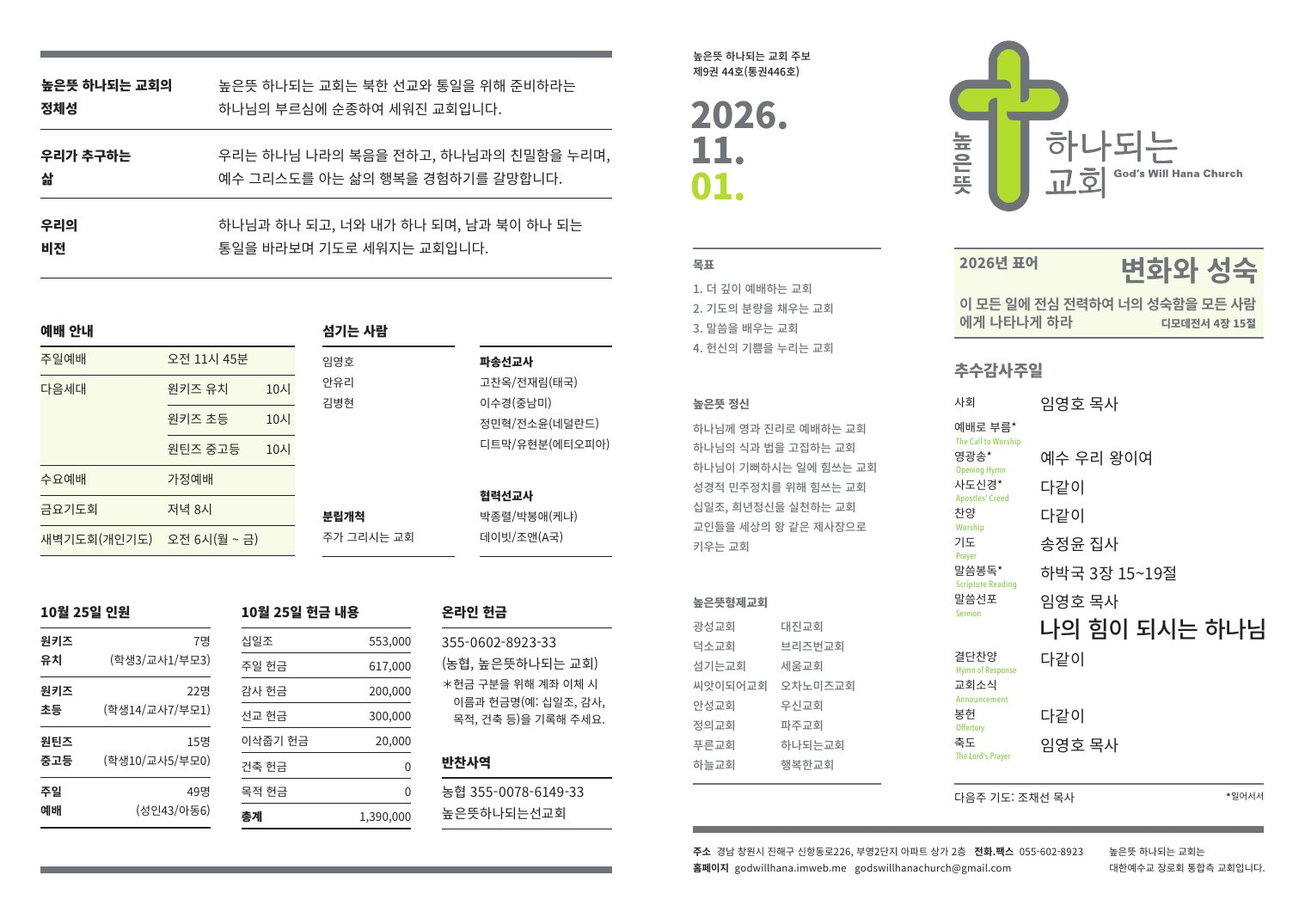
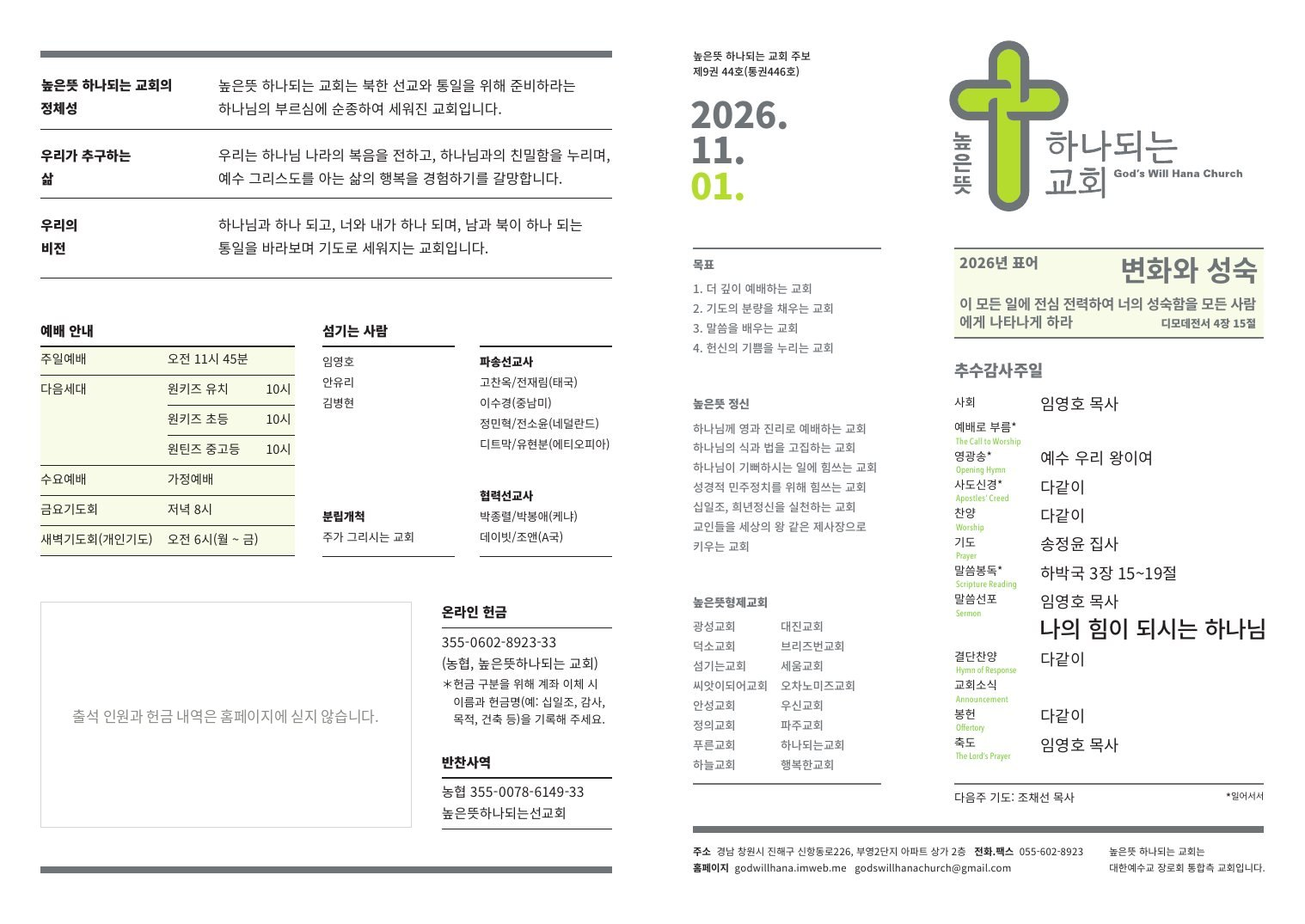
사진 넣기, 최근 4주 주보, 상단 로고·설교 첫 화면 교체
- 첫 배너·비전 배경·선교 2장·새가족 3장·대표 소식에 실제 사진 적용
- 섬기는 사람들: 원형 프로필에 이름·직위 표시
- 주보 목록을 최근 4주(443~446호)만 보이게 하고, 앞면 출석·헌금 내역 가림
- 상단 로고를 새 교회 로고로 교체 (하단 로고는 그대로)
- 설교 첫 화면 이미지와 제목 교체, SNS 아이콘 선명하게

Claude-Session: https://claude.ai/code/session_01PErPgFCD1Rt3vrzyZFhzrb

Changed region(s): [[0.031, 0.6447, 0.3096, 0.8902], [0.0929, 0.8595, 0.1548, 0.8902], [0.2787, 0.8595, 0.3096, 0.8902]]

diff --git a/index.html b/index.html
@@ -648,6 +648,72 @@ details.spirit-item{border:0!important;border-top:1px solid var(--rule)!importan
 .home-row{border-top:1px solid var(--line)!important}
 /* 설교 영상 : 예배 시간 = 2 : 1 */
 @media (min-width:1001px){.home-row .row-grid{grid-template-columns:2fr 1fr;gap:48px}.home-row .worship-times .times{grid-template-columns:1fr}}
+
+/* ===== 사진 배치 시안 (자리 표시) ===== */
+.ph{margin:0;position:relative;display:grid;place-items:center;overflow:hidden;color:#fff;
+  background:linear-gradient(135deg,#cbb89a 0%,#a8906f 55%,#8a7357 100%)}
+.ph::before{content:"";position:absolute;inset:0;background:repeating-linear-gradient(45deg,rgba(255,255,255,.06) 0 2px,transparent 2px 14px)}
+.ph-in{position:relative;display:grid;justify-items:center;gap:.3rem;text-align:center;padding:1rem;text-shadow:0 1px 4px rgba(0,0,0,.25)}
+.ph-in b{font-size:1rem;font-weight:700}
+.ph-in small{font-size:.8rem;opacity:.9;max-width:28em;line-height:1.5}
+.ph-n{position:absolute;left:12px;top:12px;z-index:2;width:26px;height:26px;border-radius:50%;background:#c4302b;color:#fff;font-size:.8rem;font-weight:800;display:grid;place-items:center;box-shadow:0 2px 6px rgba(0,0,0,.25)}
+/* 1 배너 */
+.slide.has-photo{justify-content:flex-start}
+.ph-hero{position:absolute;inset:0;width:100%;height:100%;background:linear-gradient(120deg,#5d4b39,#3a2f25 60%,#2a231c)}
+.ph-hero .ph-in{position:absolute;right:6%;bottom:56px;justify-items:end;text-align:right;opacity:.75}
+.slide.has-photo .slide-text{text-align:left;margin-left:max(72px,8%);padding:0;background:none!important}
+.slide.has-photo .slide-title,.slide.has-photo .slide-body,.slide.has-photo .slide-goals{color:#fff}
+.slide.has-photo .slide-eyebrow,.slide.has-photo .slide-ref{color:#e2c48e}
+.slide.has-photo .slide-goals{justify-content:start;border-top-color:rgba(255,255,255,.3)}
+.slide.has-photo .slide-goals li{justify-content:flex-start}
+.slide.has-photo .slide-goals b{background:#e2c48e;color:#2a231c}
+/* 2 비전 배경 */
+.vision.has-photo{position:relative;overflow:hidden}
+.ph-bg{position:absolute;inset:0;background:linear-gradient(135deg,#4a3d30,#2a231c)}
+.ph-bg .ph-in{position:absolute;right:16px;bottom:10px;padding:0;justify-items:end;opacity:.6}
+.ph-bg .ph-in svg,.ph-bg .ph-in b{display:none}
+.vision.has-photo .vision-in{position:relative}
+/* 3 프로필 */
+.ph-avatar{width:88px;height:88px;border-radius:50%;margin:0 auto .7rem;overflow:visible}
+.ph-avatar::before{border-radius:50%}
+.ph-avatar .ph-in{padding:0}.ph-avatar .ph-in b,.ph-avatar .ph-in small{display:none}
+.ph-avatar .ph-n{left:auto;right:-2px;top:-2px;width:22px;height:22px;font-size:.7rem}
+.person{border-top:0!important;padding-top:0!important}
+/* 4·6 가로 사진 */
+.ph-wide{aspect-ratio:16/9;border-radius:6px;margin-bottom:.4rem}
+.ph-flat{border-radius:0;margin:0}
+.feature{display:block!important;overflow:hidden}
+/* 5 공동체 사진 3장 */
+.ph-strip{display:grid;grid-template-columns:repeat(3,1fr);gap:12px;margin-bottom:var(--gap-block)}
+.ph-strip .ph{aspect-ratio:4/3;border-radius:6px}
+@media (max-width:640px){
+  .ph-strip{grid-template-columns:1fr 1fr}.ph-strip .ph:first-child{grid-column:1/-1;aspect-ratio:16/9}
+  .slide.has-photo .slide-text{margin-left:44px;margin-right:44px}
+  .ph-hero .ph-in{display:none}
+}
+
+/* 실제 사진이 들어간 자리 */
+.ph.has-img{background:#2a231c}
+.ph.has-img::before{display:none}
+.ph.has-img img{position:absolute;inset:0;width:100%;height:100%;object-fit:cover;display:block;max-width:none}
+.ph-bg.has-img img{object-position:center 30%}
+.ph-bg.has-img::after{content:"";position:absolute;inset:0;background:rgba(34,32,29,.45)}
+.ph-hero.has-img::after{content:"";position:absolute;inset:0;background:linear-gradient(90deg,rgba(20,16,12,.78) 0%,rgba(20,16,12,.5) 45%,rgba(20,16,12,.15) 100%)}
+.notice td{vertical-align:middle}
+.sns svg{width:22px!important;height:22px!important}
+a.sns{color:var(--pine)!important}
+a.sns:hover{color:var(--ink)!important}
+.side-logo-sm img.logo-full{width:auto;height:62px}
+@media (max-width:640px){.side-logo-sm img.logo-full{height:48px}}
+/* 섬기는 사람들: 원형 프로필 (이름 + 직위) */
+.staff{display:grid;justify-items:center}
+.staff .badge{width:132px;aspect-ratio:1;border-radius:50%;display:grid;place-content:center;justify-items:center;gap:.35rem;text-align:center;
+  background:var(--pine-soft);border:2px solid var(--pine);box-shadow:0 0 0 6px var(--pine-soft)}
+.person.staff .badge b{color:var(--ink);margin:0}
+.person.staff .badge .role{font-size:var(--t-sm)!important;color:var(--pine)!important;font-weight:600;white-space:nowrap}
+.person.staff:first-child .badge{background:var(--pine)}
+.person.staff:first-child .badge b,.person.staff:first-child .badge .role{color:#fff!important}
+@media (max-width:640px){.staff .badge{width:100px;box-shadow:0 0 0 4px var(--pine-soft)}.person.staff .badge .role{font-size:.75rem!important}}
 /* 형제교회 + 분립개척 한 세트 */
 .family{display:grid;grid-template-columns:1fr 220px;align-items:stretch;gap:0}
 .family h3{margin-bottom:1rem!important}
@@ -665,7 +731,7 @@ details.spirit-item{border:0!important;border-top:1px solid var(--rule)!importan
 
 <header class="side" id="side">
  <div class="side-in">
-  <a class="side-logo-sm" href="#top" aria-label="높은뜻 하나되는 교회 처음으로"><img src="logo.svg" alt="" width="40" height="40"><span>높은뜻 하나되는 교회</span></a>
+  <a class="side-logo-sm" href="#top" aria-label="높은뜻 하나되는 교회 처음으로"><img class="logo-full" src="logo-header.svg" alt="" width="335" height="199"></a>
   <nav class="side-nav" id="sideNav" aria-label="주 메뉴">
       <a href="#top" class="on home-link"><svg width="18" height="18" viewBox="0 0 24 24" fill="none" stroke="currentColor" stroke-width="1.8" stroke-linecap="round" stroke-linejoin="round" aria-hidden="true"><path d="M3 11l9-7 9 7"/><path d="M5 10v10h14V10"/></svg><span>Home</span></a>
       <a href="#notice"><svg width="18" height="18" viewBox="0 0 24 24" fill="none" stroke="currentColor" stroke-width="1.8" stroke-linecap="round" stroke-linejoin="round" aria-hidden="true"><path d="M12 3v18M7 8h10"/></svg><span>예배와 말씀</span></a>
@@ -675,8 +741,8 @@ details.spirit-item{border:0!important;border-top:1px solid var(--rule)!importan
       <a href="#news"><svg width="18" height="18" viewBox="0 0 24 24" fill="none" stroke="currentColor" stroke-width="1.8" stroke-linecap="round" stroke-linejoin="round" aria-hidden="true"><rect x="3" y="5" width="18" height="14" rx="1"/><path d="M7 9h10M7 13h6"/></svg><span>교회소식</span></a>
       <a class="m-only" href="#offering"><svg width="18" height="18" viewBox="0 0 24 24" fill="none" stroke="currentColor" stroke-width="1.8" stroke-linecap="round" stroke-linejoin="round" aria-hidden="true"><rect x="3" y="7" width="18" height="12" rx="1"/><path d="M3 11h18"/></svg><span>헌금 안내</span></a>
       <a class="m-only" href="#visit"><svg width="18" height="18" viewBox="0 0 24 24" fill="none" stroke="currentColor" stroke-width="1.8" stroke-linecap="round" stroke-linejoin="round" aria-hidden="true"><path d="M12 21s-6-5.5-6-11a6 6 0 0 1 12 0c0 5.5-6 11-6 11z"/><circle cx="12" cy="10" r="2"/></svg><span>오시는 길</span></a>
-      <a class="sns sns-first" aria-label="YouTube" href="https://www.youtube.com/@Godwillhanachurch" target="_blank" rel="noopener"><svg width="18" height="18" viewBox="0 0 24 24" fill="none" stroke="currentColor" stroke-width="1.8" stroke-linecap="round" stroke-linejoin="round" aria-hidden="true"><rect x="2.5" y="5.5" width="19" height="13" rx="3.5"/><path d="M10 9.5v5l4.5-2.5z" fill="currentColor"/></svg><span>YouTube</span></a>
-      <a class="sns" aria-label="Facebook" href="https://www.facebook.com/godswillhanachurch?locale=ko_KR" target="_blank" rel="noopener"><svg width="18" height="18" viewBox="0 0 24 24" fill="none" stroke="currentColor" stroke-width="1.8" stroke-linecap="round" stroke-linejoin="round" aria-hidden="true"><circle cx="12" cy="12" r="9.5"/><path d="M13.5 21.3V13.5h2.6l.4-3h-3V8.8c0-.9.3-1.5 1.6-1.5h1.5V4.7c-.3 0-1.2-.1-2.2-.1-2.2 0-3.6 1.3-3.6 3.8v2.1H8.3v3h2.5v7.6"/></svg><span>Facebook</span></a>
+      <a class="sns sns-first" aria-label="YouTube" href="https://www.youtube.com/@Godwillhanachurch" target="_blank" rel="noopener"><svg width="22" height="22" viewBox="0 0 24 24" aria-hidden="true"><path fill="currentColor" fill-rule="evenodd" d="M6 5h12a4 4 0 0 1 4 4v6a4 4 0 0 1-4 4H6a4 4 0 0 1-4-4V9a4 4 0 0 1 4-4zm4 4.2v5.6l5-2.8z"/></svg><span>YouTube</span></a>
+      <a class="sns" aria-label="Facebook" href="https://www.facebook.com/godswillhanachurch?locale=ko_KR" target="_blank" rel="noopener"><svg width="22" height="22" viewBox="0 0 24 24" aria-hidden="true"><path fill="currentColor" d="M12 2a10 10 0 0 0-1.6 19.9v-7H7.9V12h2.5V9.8c0-2.5 1.5-3.9 3.8-3.9 1.1 0 2.2.2 2.2.2v2.5h-1.3c-1.2 0-1.6.8-1.6 1.6V12h2.8l-.4 2.9h-2.3v7A10 10 0 0 0 12 2z"/></svg><span>Facebook</span></a>
   </nav>
   <a class="side-first" href="#life">처음 오셨나요?</a>
   <button class="side-toggle" type="button" id="sideToggle" aria-expanded="false" aria-controls="sideNav">메뉴</button>
@@ -687,46 +753,8 @@ details.spirit-item{border:0!important;border-top:1px solid var(--rule)!importan
   <!-- 1. 슬라이드 배너 -->
   <section class="slider" aria-roledescription="carousel" aria-label="주요 안내">
     <div class="slides" id="slides">
-      <article class="slide s1" aria-roledescription="slide" aria-label="1 / 3">
-        <svg class="slide-bg" viewBox="0 0 1200 470" preserveAspectRatio="xMinYMid slice" aria-hidden="true">
-          <rect width="1200" height="470" fill="#f3eee5"/>
-          <g transform="translate(-30 60) scale(.85)"><circle cx="560" cy="150" r="96" fill="#e6d6b8" opacity=".55"/>
-          <circle cx="560" cy="150" r="150" fill="#e6d6b8" opacity=".22"/>
-          </g><path d="M0 386 C 300 372, 700 372, 1200 388 V470 H0z" fill="#e7dfd1"/>
-          <path d="M0 386 C 300 372, 700 372, 1200 388" stroke="#cbbca4" stroke-width="1.5" fill="none"/><g transform="translate(-30 60) scale(.85)">
-          <path d="M128 360 C 230 300, 330 285, 430 250" stroke="#b9a68a" stroke-width="1.5" stroke-dasharray="2 7" stroke-linecap="round" fill="none"/>
-          <g stroke="#6f5a43" stroke-linecap="round" stroke-linejoin="round" fill="none">
-            <!-- 1. 씨앗 -->
-            <ellipse cx="110" cy="392" rx="9" ry="6" fill="#8a7155" stroke="none"/>
-            <path d="M110 398 q -4 10 2 18 M110 398 q 6 8 4 16" stroke-width="1.4"/>
-            <!-- 2. 새싹 -->
-            <path d="M220 384 V346" stroke-width="2.5"/>
-            <path d="M220 352 C 204 350, 196 338, 198 328 C 210 330, 220 340, 220 352z" fill="#a7865f" stroke-width="1.5"/>
-            <path d="M220 346 C 236 344, 244 332, 242 322 C 230 324, 220 334, 220 346z" fill="#b99a70" stroke-width="1.5"/>
-            <!-- 3. 어린 나무 -->
-            <path d="M350 384 V290" stroke-width="3.5"/>
-            <path d="M350 350 C 326 348, 314 330, 316 316 C 334 318, 348 334, 350 350z" fill="#a7865f" stroke-width="1.5"/>
-            <path d="M350 330 C 374 328, 386 310, 384 296 C 366 298, 352 314, 350 330z" fill="#b99a70" stroke-width="1.5"/>
-            <path d="M350 306 C 330 302, 322 286, 326 274 C 340 278, 350 292, 350 306z" fill="#8f7558" stroke-width="1.5"/>
-            <path d="M350 294 C 366 288, 372 272, 368 262 C 356 266, 350 280, 350 294z" fill="#a7865f" stroke-width="1.5"/>
-          </g>
-          <!-- 4. 열매 맺은 나무 -->
-          <g>
-            <path d="M556 386 C 552 340, 552 300, 556 250 M556 300 C 530 280, 510 262, 496 240 M556 286 C 582 266, 600 250, 612 226" stroke="#5c4a37" stroke-width="11" stroke-linecap="round" fill="none"/>
-            <circle cx="500" cy="210" r="62" fill="#8f7558" opacity=".92"/>
-            <circle cx="612" cy="200" r="66" fill="#a7865f" opacity=".92"/>
-            <circle cx="556" cy="160" r="74" fill="#6f5a43" opacity=".95"/>
-            <circle cx="470" cy="250" r="40" fill="#a7865f" opacity=".85"/>
-            <circle cx="646" cy="250" r="42" fill="#8f7558" opacity=".85"/>
-            <g fill="#e2c48e">
-              <circle cx="520" cy="150" r="7"/><circle cx="590" cy="130" r="6"/><circle cx="612" cy="210" r="7"/>
-              <circle cx="490" cy="222" r="6"/><circle cx="556" cy="196" r="7"/><circle cx="650" cy="250" r="6"/><circle cx="466" cy="256" r="5"/>
-            </g>
-          </g>
-          <g fill="#8a7a66" font-family="Pretendard, sans-serif" font-size="13" text-anchor="middle" letter-spacing="1">
-            <text x="110" y="440">씨앗</text><text x="220" y="440">새싹</text><text x="350" y="440">자람</text><text x="556" y="440">열매</text>
-          </g>
-        </g></svg>
+      <article class="slide s1 has-photo" aria-roledescription="slide" aria-label="1 / 3">
+        <figure class="ph ph-hero slide-bg has-img"><img src="images/hero-worship.jpg" alt="높은뜻 하나되는 교회 주일 예배 모습" fetchpriority="high" decoding="async"></figure>
         <div class="slide-text">
           <p class="slide-eyebrow">2026년 표어</p>
           <h1 class="slide-title">변화와 성숙</h1>
@@ -787,13 +815,13 @@ details.spirit-item{border:0!important;border-top:1px solid var(--rule)!importan
       <div class="row-grid">
         <div class="latest">
           <a class="thumb" href="https://www.youtube.com/watch?v=8PKMA2Dn6oE" target="_blank" rel="noopener" aria-label="11월 1일 주일예배 영상 보기 (유튜브)">
-            <img class="thumb-img" src="https://i.ytimg.com/vi/8PKMA2Dn6oE/hqdefault.jpg" alt="" loading="lazy" onload="this.parentNode.classList.add('has-img')" onerror="this.remove()">
+            <img class="thumb-img" src="images/sermon-thumb.jpg" alt="" loading="lazy" onload="this.parentNode.classList.add('has-img')" onerror="this.remove()">
             <span class="thumb-date">2026. 11. 1 주일예배</span>
-            <strong>나의 힘이 되시는<br>하나님</strong>
+            <strong>나의 힘이 되신 여호와,<br>하나님</strong>
             <span class="thumb-meta">하박국 3:15~19 · 임영호 목사</span>
             <span class="play" aria-hidden="true"><svg width="22" height="22" viewBox="0 0 24 24"><path d="M8 5v14l11-7z" fill="currentColor"/></svg></span>
           </a>
-          <h2 class="latest-title">[주일예배] 나의 힘이 되시는 하나님</h2>
+          <h2 class="latest-title">[주일예배] 나의 힘이 되신 여호와, 하나님</h2>
           <p class="latest-meta">2026년 11월 1일 추수감사주일 / 본문: 하박국 3장 15~19절 / 설교자: 임영호 목사</p>
           <div class="latest-btns"><a class="btn-dark" href="https://www.youtube.com/@Godwillhanachurch/shorts" target="_blank" rel="noopener">설교 숏츠 보기</a><a class="more" href="https://www.youtube.com/@Godwillhanachurch/streams" target="_blank" rel="noopener">지난 설교 전체 보기 <span aria-hidden="true">→</span></a></div>
         </div>
@@ -826,7 +854,8 @@ details.spirit-item{border:0!important;border-top:1px solid var(--rule)!importan
   </section>
 
   <!-- 3. 교회소개 — 비전 -->
-  <section class="vision" id="vision">
+  <section class="vision has-photo" id="vision">
+    <figure class="ph ph-bg has-img" aria-hidden="true"><img src="images/vision-bg.jpg" alt="" loading="lazy" decoding="async"></figure>
     <div class="wrap vision-in">
       <h2>높은뜻 하나되는교회 비전</h2>
       <p class="vision-tag">One in God, One in Love, One Korea</p>
@@ -845,9 +874,9 @@ details.spirit-item{border:0!important;border-top:1px solid var(--rule)!importan
           <div class="box" id="people">
             <h3>섬기는 사람들</h3>
             <div class="people">
-              <div class="person"><b>임영호</b><span>담임목사</span></div>
-              <div class="person"><b>안유리</b><span>전임 전도사</span></div>
-              <div class="person"><b>김병현</b><span>찬양 전도사</span></div>
+              <div class="person staff"><div class="badge"><b>임영호</b><span class="role">담임목사</span></div></div>
+              <div class="person staff"><div class="badge"><b>안유리</b><span class="role">전임 전도사</span></div></div>
+              <div class="person staff"><div class="badge"><b>김병현</b><span class="role">찬양 전도사</span></div></div>
             </div>
           </div>
           <div class="box" id="missionaries">
@@ -902,6 +931,7 @@ details.spirit-item{border:0!important;border-top:1px solid var(--rule)!importan
         <div class="mission-col" id="faithmission">
           <h3 class="m-head">해외선교 · FaithMission</h3>
           <div class="ministry">
+            <figure class="ph ph-wide has-img"><img src="images/mission-overseas.jpg" alt="케냐 AIC 올로마이야나 교회 앞에서 현지 성도들과 함께한 단체 사진" loading="lazy" decoding="async"></figure>
             <ul class="m-tags"><li><button type="button" class="m-tag on" aria-pressed="true" data-d="현지 사역자와 함께 가정을 방문하여 예수 그리스도의 복음을 전합니다.">복음 전도</button></li><li><button type="button" class="m-tag" aria-pressed="false" data-d="아픈 현지인들을 위해 간절히 기도하며 성령의 역사를 경험합니다.">치유 기도</button></li><li><button type="button" class="m-tag" aria-pressed="false" data-d="현지 사역자와 선교사님들을 찾아가 위로하고 축복합니다.">위로와 축복</button></li><li><button type="button" class="m-tag" aria-pressed="false" data-d="온 세대가 함께 참여하는 가족 단위 선교를 진행합니다.">패밀리 선교</button></li></ul>
             <p class="m-say" aria-live="polite">현지 사역자와 함께 가정을 방문하여 예수 그리스도의 복음을 전합니다.</p>
             <p class="m-info"><b>아웃리치</b>케냐 · 에티오피아 · 레바논 · 필리핀 · 태국</p>
@@ -911,6 +941,7 @@ details.spirit-item{border:0!important;border-top:1px solid var(--rule)!importan
         <div class="mission-col" id="nk">
           <h3 class="m-head">국내선교 · 탈북민 사역</h3>
           <div class="ministry">
+            <figure class="ph ph-wide has-img"><img src="images/mission-nk.jpg" alt="북향민 가정에 나눌 버섯 전골 재료를 정성껏 담은 그릇들" loading="lazy" decoding="async"></figure>
             <ul class="m-tags"><li><button type="button" class="m-tag on" aria-pressed="true" data-d="북향민 가정을 찾아가 정성껏 준비한 반찬을 나눕니다.">돌봄</button></li><li><button type="button" class="m-tag" aria-pressed="false" data-d="위로와 격려가 필요한 분들을 위해 기도하고 함께 예배합니다.">기도와 예배</button></li><li><button type="button" class="m-tag" aria-pressed="false" data-d="명절과 삼복더위에 식당에서 따뜻한 식사를 대접합니다.">식사 대접</button></li></ul>
             <p class="m-say" aria-live="polite">북향민 가정을 찾아가 정성껏 준비한 반찬을 나눕니다.</p>
             <p class="m-info"><b>반찬나눔</b>매주 금요일 오전 10시 교회 사무실 출발 · 부산 다대포</p>
@@ -928,6 +959,7 @@ details.spirit-item{border:0!important;border-top:1px solid var(--rule)!importan
         <p class="eyebrow">환영합니다</p>
         <h2 class="welcome-h">하나님이 주인 되시는 건강하고 행복한,<br><span class="nb">높은뜻 하나되는 교회</span>에 오신 여러분을 환영하고 축복합니다.</h2>
       </div>
+      <div class="ph-strip"><figure class="ph has-img"><img src="images/worship.jpg" alt="예배 후 함께 모인 높은뜻 하나되는 교회 성도들" loading="lazy" decoding="async"></figure><figure class="ph has-img"><img src="images/smallgroup.jpg" alt="목장 모임에서 함께 선교 영상을 보는 모습" loading="lazy" decoding="async"></figure><figure class="ph has-img"><img src="images/nextgen.jpg" alt="찬양을 준비하는 다음세대 아이들" loading="lazy" decoding="async"></figure></div>
       <div class="reg" id="register">
         <h3 class="reg-title">새가족 등록과정 안내</h3>
         <ol class="reg-steps">
@@ -973,6 +1005,7 @@ details.spirit-item{border:0!important;border-top:1px solid var(--rule)!importan
         </div>
         <div class="news-grid">
           <article class="feature">
+            <figure class="ph ph-wide ph-flat has-img"><img src="images/news-thanks.jpg" alt="십자가 앞에 놓인 추수감사 헌물: 쌀, 단호박, 감, 두유와 간식" loading="lazy" decoding="async"></figure>
             <div class="feature-body">
               <p class="cats"><span>선교소식</span></p>
               <h3>얼감감 프로젝트, 감사의 마음을 나눕니다</h3>
@@ -1007,12 +1040,10 @@ details.spirit-item{border:0!important;border-top:1px solid var(--rule)!importan
         <table>
           <thead><tr><th scope="col">제목</th><th scope="col">작성일</th></tr></thead>
           <tbody>
-            <tr><td><a href="#bulletin" class="open-bulletin">2026년 11월 1일 주보 (통권 446호)</a></td><td>2026.11.01</td></tr>
-            <tr><td><a href="#news">얼감감 프로젝트 참여 안내 (11월 6일)</a></td><td>2026.11.01</td></tr>
-            <tr><td><a href="#news">추수감사주일 온세대 예배와 전교인 소풍</a></td><td>2026.11.01</td></tr>
-            <tr><td><a href="#news">2026년 하반기 심방 신청 안내</a></td><td>2026.11.01</td></tr>
-            <tr><td><a href="#news">금요일밤 “1 Hour” 기도회</a></td><td>2026.11.01</td></tr>
-            <tr><td><a href="#news">“믿음으로 사는 삶” 목장모임</a></td><td>2026.11.01</td></tr>
+            <tr><td><a href="#bulletin" class="open-bulletin" data-b="446">2026년 11월 1일 주보 (통권 446호)</a></td><td>2026.11.01</td></tr>
+            <tr><td><a href="#bulletin" class="open-bulletin" data-b="445">2026년 10월 25일 주보 (통권 445호)</a></td><td>2026.10.25</td></tr>
+            <tr><td><a href="#bulletin" class="open-bulletin" data-b="444">2026년 10월 18일 주보 (통권 444호)</a></td><td>2026.10.18</td></tr>
+            <tr><td><a href="#bulletin" class="open-bulletin" data-b="443">2026년 10월 11일 주보 (통권 443호)</a></td><td>2026.10.11</td></tr>
           </tbody>
         </table>
       </div>
@@ -1067,9 +1098,9 @@ details.spirit-item{border:0!important;border-top:1px solid var(--rule)!importan
 </footer>
 
 
-<div class="bv" id="bulletinViewer" hidden role="dialog" aria-modal="true" aria-label="2026년 11월 1일 주보">
+<div class="bv" id="bulletinViewer" hidden role="dialog" aria-modal="true" aria-labelledby="bvTitle">
   <div class="bv-bar">
-    <strong>2026년 11월 1일 주보 <span>제9권 44호 (통권 446호)</span></strong>
+    <strong id="bvTitle">2026년 11월 1일 주보 <span>제9권 44호 (통권 446호)</span></strong>
     <div class="bv-tabs" role="tablist">
       <button type="button" role="tab" class="on" data-page="0" aria-selected="true">앞면</button>
       <button type="button" role="tab" data-page="1" aria-selected="false">뒷면</button>
@@ -1077,8 +1108,8 @@ details.spirit-item{border:0!important;border-top:1px solid var(--rule)!importan
     <button type="button" class="bv-close" id="bvClose" aria-label="주보 닫기">닫기 ✕</button>
   </div>
   <div class="bv-stage">
-    <img src="bulletin-446-1.jpg" alt="주보 앞면: 예배 순서, 교회 정체성과 비전, 섬기는 사람, 온라인 헌금 안내" width="1518" height="1075" class="on">
-    <img src="bulletin-446-2.jpg" alt="주보 뒷면: 하나되는 예배 캠페인과 교회이야기(환영, 행정, 예배, 양육, 사역, 선교, 목장 소식)" width="1518" height="1075" loading="lazy">
+    <img src="bulletin-446-1.jpg" alt="주보 앞면: 예배 순서, 교회 정체성과 비전, 섬기는 사람, 온라인 헌금 안내" width="1518" height="1075" class="on" loading="lazy">
+    <img src="bulletin-446-2.jpg" alt="주보 뒷면: 예배 캠페인과 교회이야기(환영, 행정, 예배, 양육, 사역, 선교, 목장 소식)" width="1518" height="1075" loading="lazy">
   </div>
   <p class="bv-hint">이미지를 누르면 다음 면으로 넘어갑니다</p>
 </div>
@@ -1114,7 +1145,31 @@ document.querySelectorAll('a[href="#life"]').forEach(function(a){a.addEventListe
   var v=document.getElementById('bulletinViewer'); if(!v) return;
   var imgs=v.querySelectorAll('.bv-stage img'), tabs=v.querySelectorAll('.bv-tabs button'), last=null, cur=0;
   function show(n){cur=n;imgs.forEach(function(im,k){im.classList.toggle('on',k===n)});tabs.forEach(function(t,k){t.classList.toggle('on',k===n);t.setAttribute('aria-selected',k===n)})}
-  function open(e){e.preventDefault();last=document.activeElement;show(0);v.hidden=false;document.body.style.overflow='hidden';document.getElementById('bvClose').focus()}
+  // 최근 4주 주보만 보관합니다. 새 주보는 맨 위에 추가하고 가장 오래된 것은 지웁니다.
+  var B={
+    '446':['2026년 11월 1일','제9권 44호'],
+    '445':['2026년 10월 25일','제9권 43호'],
+    '444':['2026년 10월 18일','제9권 42호'],
+    '443':['2026년 10월 11일','제9권 41호']
+  };
+  // 주보 목록 높이를 대표 소식 카드 아래선에 맞춤 (두 칸으로 나란히 보일 때만)
+  (function(){
+    var f=document.querySelector('#news .feature'), t=document.querySelector('#bulletin-list table');
+    if(!f||!t) return;
+    function fit(){
+      t.style.height='';
+      var fr=f.getBoundingClientRect(), tr=t.getBoundingClientRect();
+      if(tr.left>fr.right-1 && fr.bottom>tr.bottom){ t.style.height=(fr.bottom-tr.top)+'px'; }
+    }
+    addEventListener('resize',fit); addEventListener('load',fit);
+    f.querySelectorAll('img').forEach(function(im){im.addEventListener('load',fit)});
+    fit();
+  })();
+  var title=document.getElementById('bvTitle');
+  function load(n){var b=B[n]; if(!b) return;
+    imgs[0].src='bulletin-'+n+'-1.jpg'; imgs[1].src='bulletin-'+n+'-2.jpg';
+    title.innerHTML=b[0]+' 주보 <span>'+b[1]+' (통권 '+n+'호)</span>';}
+  function open(e){e.preventDefault();last=document.activeElement;load(this.getAttribute('data-b')||'446');show(0);v.hidden=false;document.body.style.overflow='hidden';document.getElementById('bvClose').focus()}
   function close(){v.hidden=true;document.body.style.overflow='';if(last)last.focus()}
   document.querySelectorAll('.open-bulletin').forEach(function(a){a.addEventListener('click',open)});
   tabs.forEach(function(t,k){t.onclick=function(){show(k)}});
